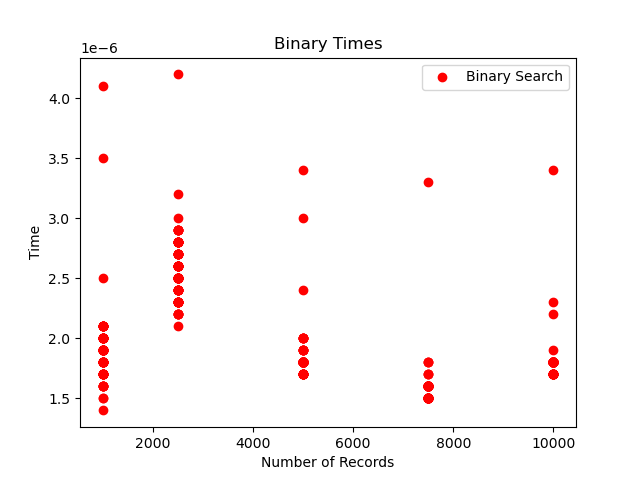
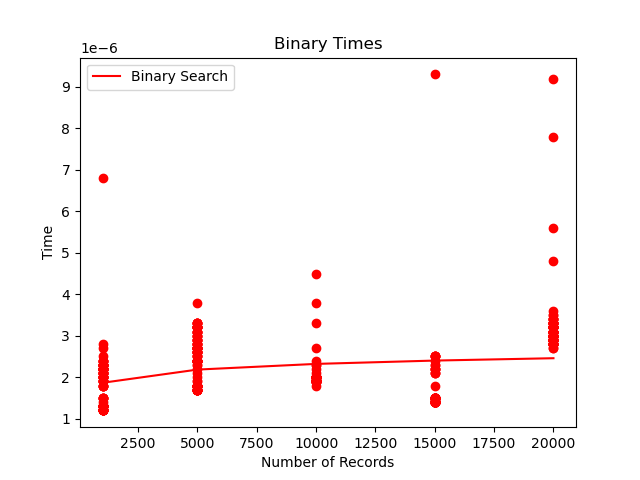
updates to exercise 4

diff --git a/ex4.2.py b/ex4.2.py
@@ -2,7 +2,9 @@ import timeit
 import random
 from matplotlib import pyplot as plt
 import numpy as np
+from scipy.optimize import curve_fit
 
+#optimized
 def binary_search(arr,target):
     left = 0
     right = len(arr) - 1
@@ -18,7 +20,7 @@ def binary_search(arr,target):
         else:
             right = mid - 1
     return -1  
-
+#non-optimized
 def linear_search(arr, target):
     for i in range(len(arr)):
         if arr[i] == target:
@@ -31,7 +33,7 @@ def linear_search(arr, target):
 
 #5
 
-vectorSizes = [1000,2500,5000,7500,10000]
+vectorSizes = [1000,5000,10000,15000, 20000]
 sizes = []
 binaryTimes = []
 linearTimes = []
@@ -44,13 +46,18 @@ for i in vectorSizes:
     sizes += [i for j in range(100)]
     
     tm = timeit.repeat(lambda: binary_search(arr,target), repeat=100, number=1)
-    binaryTimes.append(tm)
+    binaryTimes += tm
+    print("The average time for Binary search with", i,"inputs is", sum(tm)/len(tm))
 
     tm = timeit.repeat(lambda: linear_search(arr,target), repeat=100, number=1)
-    linearTimes.append(tm)
+    linearTimes += tm
+    print("The average time for Linear search with", i,"inputs is", sum(tm)/len(tm), '\n')
 
 
-plt.scatter(sizes,linearTimes, c="b", label="Linear Search")
+slope, intercept = np.polyfit(sizes, linearTimes, 1)
+linevalues = [slope * x + intercept for x in sizes]
+plt.scatter(sizes,linearTimes, c='b')
+plt.plot(sizes, linevalues, 'b', label="Linear Search")
 
 plt.xlabel('Number of Records')
 plt.ylabel('Time')
@@ -60,7 +67,12 @@ plt.savefig('output.4.2.5.1.png')
 
 plt.clf()
 
-plt.scatter(sizes,binaryTimes, c="r", label="Binary Search")
+def log(x, a, b):
+    return a*np.log(x) + b
+constants = curve_fit(log, sizes, binaryTimes)
+linevalues = [constants[0][0] * np.log(x) + constants[0][1] for x in sizes]
+plt.scatter(sizes,binaryTimes, c='r')
+plt.plot(sizes, linevalues, 'r', label="Binary Search")
 
 plt.xlabel('Number of Records')
 plt.ylabel('Time')
